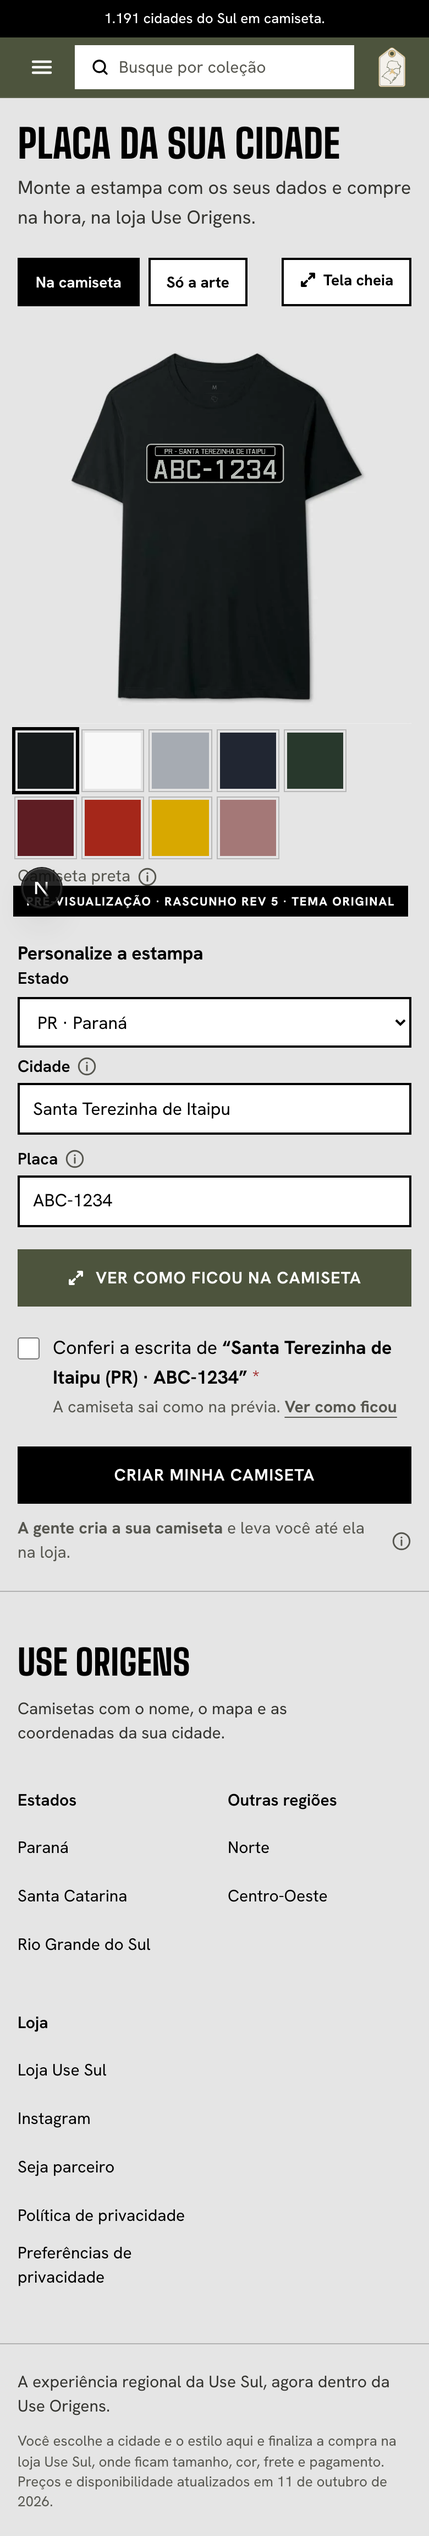
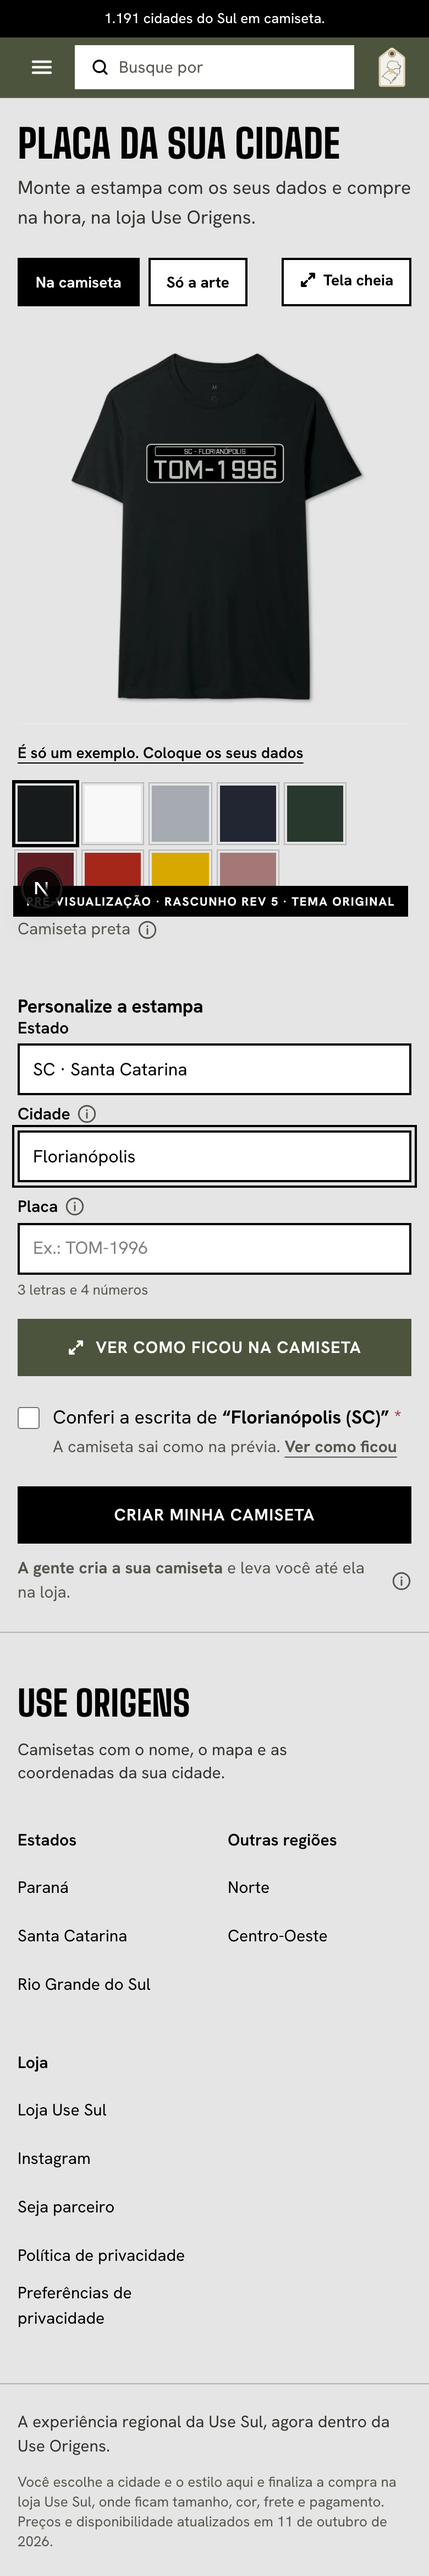
feat(storefront): estado também digitado com sugestões, como a cidade
O seletor de estado vira um campo com autocomplete (sigla ou nome, sem acento:
"pr" acha Paraná, "para" mostra Pará, Paraíba e Paraná; vazio, lista os 27). O
estado digitado inteiro vale ao sair do campo, e escolher leva o foco à cidade.
A cidade fica sempre habilitada: tocar nela confirma o estado digitado; sem
estado, a lista avisa "Escolha o estado primeiro". Os dois campos usam o mesmo
combobox; voltar a um campo preenchido seleciona o texto para trocar.

diff --git a/src/components/customization/CityField.tsx b/src/components/customization/CityField.tsx
@@ -1,25 +1,86 @@
 "use client";
 
 import { useEffect, useId, useMemo, useState, type KeyboardEvent, type ReactNode } from "react";
-import { BRAZIL_UF_NAMES, BRAZIL_UFS, cityValue, exactCity, loadBrazilCities, parseCityValue, searchCities, type BrazilCity } from "@/lib/geo/brazil-cities";
+import { BRAZIL_UF_NAMES, cityValue, exactCity, exactUf, loadBrazilCities, parseCityValue, searchCities, searchUfs, ufLabel, type BrazilCity } from "@/lib/geo/brazil-cities";
 import styles from "./ArtworkEditor.module.css";
 
+type Option = { key: string; label: string };
+
 /**
- * A city of Brazil for a print ("PR - SANTA TEREZINHA DE ITAIPU"): the state first, then the city with autocomplete (an ARIA combobox; no
- * `<datalist>`, unreliable on iOS and in the Instagram browser). The answer is "Nome/UF" and exists only once a city of the list is picked;
- * a full name typed without picking counts when the field is left. The list (IBGE, ~50 KB) loads only where this field is shown.
+ * A text field with suggestions underneath (an ARIA combobox; no `<datalist>`, unreliable on iOS and in the Instagram browser). The parent owns
+ * the text and the options; picking sends the option, leaving the field lets the parent accept a full name typed without picking.
+ */
+function Combobox({ id, label, tip, query, onType, options, onPick, onLeave, listLabel, empty, openWhenEmpty = false, picked, disabled, placeholder, invalid, describedBy }: {
+  id: string; label: string; tip?: ReactNode; query: string; onType: (text: string) => void; options: Option[]; onPick: (key: string) => void; onLeave: () => void;
+  listLabel: string; empty: ReactNode; openWhenEmpty?: boolean; picked: boolean; disabled?: boolean; placeholder: string; invalid?: boolean; describedBy?: string;
+}) {
+  const listId = useId();
+  const [open, setOpen] = useState(false);
+  const [active, setActive] = useState(0);
+  const pick = (option: Option) => { setOpen(false); onPick(option.key); };
+  const keys = (e: KeyboardEvent<HTMLInputElement>) => {
+    if (e.key === "ArrowDown" || e.key === "ArrowUp") {
+      e.preventDefault();
+      setOpen(true);
+      if (options.length) setActive((i) => (i + (e.key === "ArrowDown" ? 1 : options.length - 1)) % options.length);
+    } else if (e.key === "Enter" && open && options[active]) {
+      e.preventDefault();
+      pick(options[active]);
+    } else if (e.key === "Escape") setOpen(false);
+  };
+  const showList = open && !picked && (openWhenEmpty || query.trim() !== "");
+  return (
+    <div className={styles.cityInput}>
+      <div className="flex items-center"><label className="t-label" htmlFor={id}>{label}</label>{tip}</div>
+      <input
+        id={id}
+        role="combobox"
+        aria-expanded={showList}
+        aria-controls={listId}
+        aria-autocomplete="list"
+        aria-activedescendant={showList && options[active] ? `${listId}-${active}` : undefined}
+        aria-invalid={invalid || undefined}
+        aria-describedby={describedBy}
+        value={query}
+        disabled={disabled}
+        onChange={(e) => { onType(e.target.value); setOpen(true); setActive(0); }}
+        onFocus={(e) => { setOpen(true); if (picked) e.target.select(); }}
+        onBlur={() => { setOpen(false); onLeave(); }}
+        onKeyDown={keys}
+        autoComplete="off"
+        autoCorrect="off"
+        spellCheck={false}
+        placeholder={placeholder}
+        className={styles.textarea}
+      />
+      {showList && (
+        <ul id={listId} role="listbox" aria-label={listLabel} className={styles.cityList}>
+          {options.length ? options.map((option, i) => (
+            // mousedown keeps the focus in the field, so the click still picks (on touch too).
+            <li key={option.key} id={`${listId}-${i}`} role="option" aria-selected={i === active} className={styles.cityOption} onMouseDown={(e) => e.preventDefault()} onClick={() => pick(option)}>
+              {option.label}
+            </li>
+          )) : <li className={styles.cityEmpty}>{empty}</li>}
+        </ul>
+      )}
+    </div>
+  );
+}
+
+/**
+ * A city of Brazil for a print ("PR - SANTA TEREZINHA DE ITAIPU"): the state, then the city, both typed with suggestions. The answer is "Nome/UF"
+ * and exists only once a city of the list is picked; a full state or city name typed without picking counts when its field is left. The city
+ * list (IBGE, ~50 KB) loads only where this field is shown.
  */
 export function CityField({ id, label, tip, value, onChange, error, describedBy }: { id: string; label: string; tip?: ReactNode; value: string; onChange: (value: string) => void; error?: string; describedBy: string }) {
-  const listId = useId();
   const picked = parseCityValue(value);
   const [uf, setUf] = useState(picked?.uf ?? "");
+  const [ufQuery, setUfQuery] = useState(picked ? ufLabel(picked.uf) : "");
   const [query, setQuery] = useState(picked?.name ?? "");
   const [cities, setCities] = useState<BrazilCity[] | null>(null);
   // The list comes as a separate download: on a weak phone connection it can fail, and the customer can try again.
   const [failed, setFailed] = useState(false);
   const [attempt, setAttempt] = useState(0);
-  const [open, setOpen] = useState(false);
-  const [active, setActive] = useState(0);
 
   useEffect(() => {
     let live = true;
@@ -33,89 +94,53 @@ export function CityField({ id, label, tip, value, onChange, error, describedBy 
     setShown(value);
     if (picked) {
       setUf(picked.uf);
+      setUfQuery(ufLabel(picked.uf));
       setQuery(picked.name);
     }
   }
 
-  const options = useMemo(() => (cities && uf && query.trim() ? searchCities(cities, uf, query) : []), [cities, uf, query]);
-  const pick = (city: BrazilCity) => {
-    setQuery(city.name);
-    setOpen(false);
-    onChange(cityValue(city));
+  const ufOptions = useMemo(() => searchUfs(uf ? "" : ufQuery).map((u) => ({ key: u, label: ufLabel(u) })), [uf, ufQuery]);
+  const cityOptions = useMemo(() => (cities && uf && query.trim() ? searchCities(cities, uf, query).map((c) => ({ key: c.id, label: c.name })) : []), [cities, uf, query]);
+
+  const pickUf = (next: string) => {
+    setUf(next);
+    setUfQuery(ufLabel(next));
+    setQuery("");
+    if (value) onChange("");
+    requestAnimationFrame(() => document.getElementById(id)?.focus());
   };
-  const type = (text: string) => {
-    setQuery(text);
-    setOpen(true);
-    setActive(0);
+  const typeUf = (text: string) => {
+    setUfQuery(text);
+    if (uf) { setUf(""); setQuery(""); }
     if (value) onChange("");
   };
-  const leave = () => {
-    setOpen(false);
-    if (!value && cities && uf) {
-      const city = exactCity(cities, uf, query);
-      if (city) pick(city);
-    }
+  const pickCity = (city: BrazilCity) => {
+    setQuery(city.name);
+    onChange(cityValue(city));
   };
-  const keys = (e: KeyboardEvent<HTMLInputElement>) => {
-    if (e.key === "ArrowDown" || e.key === "ArrowUp") {
-      e.preventDefault();
-      setOpen(true);
-      if (options.length) setActive((i) => (i + (e.key === "ArrowDown" ? 1 : options.length - 1)) % options.length);
-    } else if (e.key === "Enter" && open && options[active]) {
-      e.preventDefault();
-      pick(options[active]);
-    } else if (e.key === "Escape") setOpen(false);
+  const typeCity = (text: string) => {
+    setQuery(text);
+    if (value) onChange("");
   };
-  const showList = open && query.trim() !== "" && !value;
 
   return (
     <div className={styles.city}>
-      <div>
-        <label className="t-label" htmlFor={`${id}-uf`}>Estado</label>
-        <select id={`${id}-uf`} className={styles.textarea} value={uf} onChange={(e) => { setUf(e.target.value); setQuery(""); onChange(""); requestAnimationFrame(() => document.getElementById(id)?.focus()); }}>
-          <option value="">Escolha</option>
-          {BRAZIL_UFS.map((u) => <option key={u} value={u}>{u} · {BRAZIL_UF_NAMES[u]}</option>)}
-        </select>
-      </div>
+      <Combobox
+        id={`${id}-uf`} label="Estado" query={ufQuery} onType={typeUf} options={ufOptions} onPick={pickUf} openWhenEmpty picked={Boolean(uf)}
+        onLeave={() => { const typed = !uf && exactUf(ufQuery); if (typed) pickUf(typed); }}
+        listLabel="Estados" empty={<>Nenhum estado com “{ufQuery.trim()}”.</>} placeholder="Digite o estado" />
       {failed && (
         <p className={`${styles.error} ${styles.cityFailed}`} role="alert">
           Não foi possível carregar a lista de cidades. <button type="button" className="underline underline-offset-4" onClick={retry}>Tentar de novo</button>
         </p>
       )}
-      <div className={styles.cityInput}>
-        <div className="flex items-center"><label className="t-label" htmlFor={id}>{label}</label>{tip}</div>
-        <input
-          id={id}
-          role="combobox"
-          aria-expanded={showList}
-          aria-controls={listId}
-          aria-autocomplete="list"
-          aria-activedescendant={showList && options[active] ? `${listId}-${active}` : undefined}
-          aria-invalid={Boolean(error)}
-          aria-describedby={describedBy}
-          value={query}
-          disabled={!uf}
-          onChange={(e) => type(e.target.value)}
-          onFocus={() => setOpen(true)}
-          onBlur={leave}
-          onKeyDown={keys}
-          autoComplete="off"
-          autoCorrect="off"
-          spellCheck={false}
-          placeholder={uf ? "Digite o nome da cidade" : "Escolha o estado primeiro"}
-          className={styles.textarea}
-        />
-        {showList && (
-          <ul id={listId} role="listbox" aria-label={`Cidades de ${BRAZIL_UF_NAMES[uf]}`} className={styles.cityList}>
-            {!cities ? <li className={styles.cityEmpty}>{failed ? "A lista de cidades não carregou." : "Carregando as cidades…"}</li> : options.length ? options.map((city, i) => (
-              // mousedown keeps the focus in the field, so the click still picks (on touch too).
-              <li key={city.id} id={`${listId}-${i}`} role="option" aria-selected={i === active} className={styles.cityOption} onMouseDown={(e) => e.preventDefault()} onClick={() => pick(city)}>
-                {city.name}
-              </li>
-            )) : <li className={styles.cityEmpty}>Nenhuma cidade com “{query.trim()}” em {BRAZIL_UF_NAMES[uf]}.</li>}
-          </ul>
-        )}
-      </div>
+      <Combobox
+        id={id} label={label} tip={tip} query={query} onType={typeCity} options={cityOptions} picked={Boolean(value)} invalid={Boolean(error)} describedBy={describedBy}
+        onPick={(key) => { const city = cities?.find((c) => c.id === key); if (city) pickCity(city); }}
+        onLeave={() => { const typed = !value && cities && uf ? exactCity(cities, uf, query) : null; if (typed) pickCity(typed); }}
+        listLabel={uf ? `Cidades de ${BRAZIL_UF_NAMES[uf]}` : "Cidades"}
+        empty={!uf ? "Escolha o estado primeiro." : !cities ? (failed ? "A lista de cidades não carregou." : "Carregando as cidades…") : <>Nenhuma cidade com “{query.trim()}” em {BRAZIL_UF_NAMES[uf]}.</>}
+        placeholder="Digite o nome da cidade" />
     </div>
   );
 }

diff --git a/tests/unit/placa-personalizada.test.ts b/tests/unit/placa-personalizada.test.ts
@@ -4,7 +4,7 @@ import { describe, expect, test } from "vitest";
 import sharp from "sharp";
 import { artworkFields, composeArtwork, fieldDisplay, fieldEdits, fieldsCopy, fieldsSummary, plateValue, typedPlate, validateArtworkFields } from "@/lib/customization/artwork";
 import { needsReview } from "@/lib/customization/review-words";
-import { cityValue, exactCity, parseCityValue, searchCities, type BrazilCity } from "@/lib/geo/brazil-cities";
+import { cityValue, exactCity, exactUf, parseCityValue, searchCities, searchUfs, ufLabel, type BrazilCity } from "@/lib/geo/brazil-cities";
 import { parseProjectFile, type PrintProject } from "@/lib/print-studio/model";
 import { renderProjectPng } from "@/lib/print-studio/render-server";
 
@@ -82,6 +82,17 @@ describe("city answers", () => {
     expect(searchCities(CITIES, "PR", "cur").map((c) => c.name)[0]).toBe("Curitiba");
     expect(searchCities(CITIES, "PR", "xyzw")).toEqual([]);
     expect(exactCity(CITIES, "PA", "belem")?.name).toBe("Belém");
+  });
+  test("the state is typed too: by abbreviation or name, accents aside", () => {
+    expect(searchUfs("pr")[0]).toBe("PR");
+    expect(searchUfs("para")).toEqual(["PA", "PB", "PR"]);
+    expect(searchUfs("sao")).toEqual(["SP"]);
+    expect(searchUfs("grande")).toEqual(["RN", "RS"]);
+    expect(searchUfs("")).toHaveLength(27);
+    expect(searchUfs("xx")).toEqual([]);
+    expect(["sc", "Santa Catarina", "santa catarina", "SC · Santa Catarina", "goias"].map(exactUf)).toEqual(["SC", "SC", "SC", "SC", "GO"]);
+    expect(exactUf("santa")).toBeNull();
+    expect(ufLabel("PR")).toBe("PR · Paraná");
   });
   test("reads well to the customer and the team", () => {
     expect(fieldDisplay({ input: "city" }, "Santa Terezinha de Itaipu/PR")).toBe("Santa Terezinha de Itaipu (PR)");

diff --git a/src/lib/geo/brazil-cities.ts b/src/lib/geo/brazil-cities.ts
@@ -53,3 +53,26 @@ export function exactCity(cities: readonly BrazilCity[], uf: string, query: stri
   const q = normalizeText(query);
   return q ? cities.find((c) => c.uf === uf && normalizeText(c.name) === q) ?? null : null;
 }
+
+/** A state as the field shows it once picked: "PR · Paraná". */
+export const ufLabel = (uf: string): string => `${uf} · ${BRAZIL_UF_NAMES[uf]}`;
+
+/**
+ * The states matching what was typed, by abbreviation or name, accents and case aside ("pr" finds Paraná first, "para" finds Pará, Paraíba and
+ * Paraná): the exact abbreviation first, then names starting with it, then names with a word starting with it. Empty: all 27.
+ */
+export function searchUfs(query: string): string[] {
+  const q = normalizeText(query);
+  if (!q) return BRAZIL_UFS;
+  const rank = (uf: string) => {
+    const name = normalizeText(BRAZIL_UF_NAMES[uf]);
+    return uf.toLowerCase() === q ? 0 : name.startsWith(q) ? 1 : ` ${name}`.includes(` ${q}`) ? 2 : -1;
+  };
+  return BRAZIL_UFS.map((uf) => ({ uf, r: rank(uf) })).filter((x) => x.r >= 0).sort((a, b) => a.r - b.r || BRAZIL_UF_NAMES[a.uf].localeCompare(BRAZIL_UF_NAMES[b.uf], "pt-BR")).map((x) => x.uf);
+}
+
+/** The state typed in full (abbreviation, name or "PR · Paraná"), so it counts without picking. */
+export function exactUf(query: string): string | null {
+  const q = normalizeText(query);
+  return BRAZIL_UFS.find((uf) => q === uf.toLowerCase() || q === normalizeText(BRAZIL_UF_NAMES[uf]) || q === normalizeText(ufLabel(uf))) ?? null;
+}
